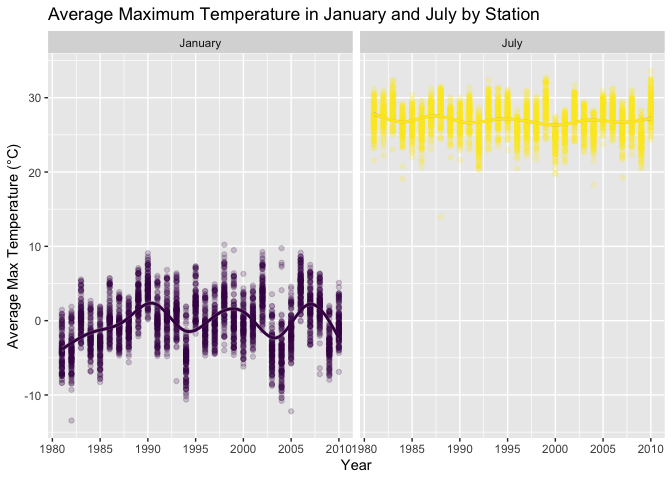
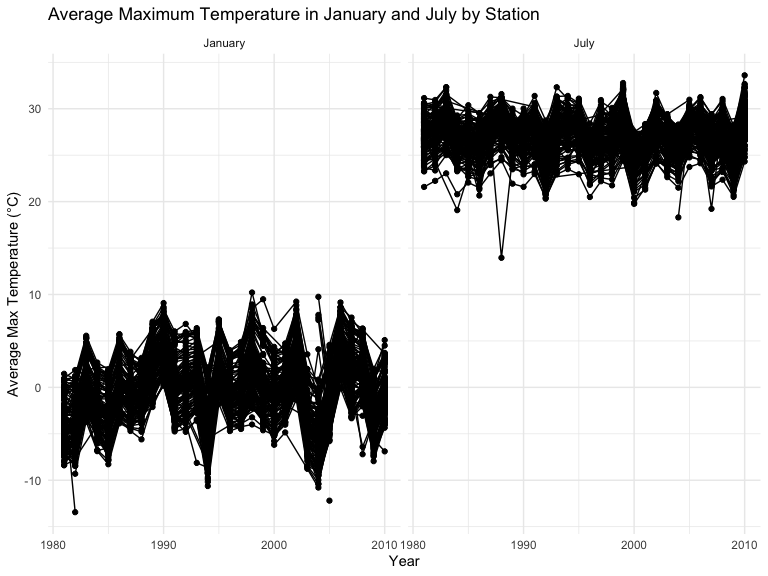
made changes/edits to problem 1

diff --git a/p8105_hw3_ss6985.md b/p8105_hw3_ss6985.md
@@ -82,39 +82,38 @@ measured in tenths of degrees C and converted into degrees C).
 
 ``` r
 noaatidy_df |>
-  filter(!is.na(snow)) |>            
-  group_by(snow) |>                 
-  summarize(count = n()) |>        
-  arrange(desc(count)) 
+  count(snow) |>
+  arrange(desc(n))
 ```
 
-    ## # A tibble: 281 × 2
-    ##     snow   count
+    ## # A tibble: 282 × 2
+    ##     snow       n
     ##    <int>   <int>
     ##  1     0 2008508
-    ##  2    25   31022
-    ##  3    13   23095
-    ##  4    51   18274
-    ##  5    76   10173
-    ##  6     8    9962
-    ##  7     5    9748
-    ##  8    38    9197
-    ##  9     3    8790
-    ## 10   102    6552
-    ## # ℹ 271 more rows
+    ##  2    NA  381221
+    ##  3    25   31022
+    ##  4    13   23095
+    ##  5    51   18274
+    ##  6    76   10173
+    ##  7     8    9962
+    ##  8     5    9748
+    ##  9    38    9197
+    ## 10     3    8790
+    ## # ℹ 272 more rows
 
 For snowfall, the most commonly observed value is O (no recorded
 snowfall on most days in NY state). This makes sense because snowfall
 only occurs during certain times of the year and in specific conditions
 (i.e., there are many days with no snowfall, and a small window for
-possible snow).
+possible snow). The second most commonly observed value is `NA`,
+suggesting missingness.
 
 ### Making two-panel plot:
 
 ``` r
-avg_temp_df = noaatidy_df %>% 
-  filter(month %in% c("January", "July")) %>% 
-  group_by(id, year, month) %>% 
+avg_temp_df = noaatidy_df |>
+  filter(month %in% c("January", "July")) |>
+  group_by(id, year, month) |>
   summarize(avg_tmax = mean(tmax, na.rm = TRUE))
 ```
 
@@ -122,73 +121,51 @@ avg_temp_df = noaatidy_df %>%
     ## `.groups` argument.
 
 ``` r
-ggplot(avg_temp_df, aes(x = year, y = avg_tmax, color = month)) +
-  geom_point(alpha = 0.2) +
-  geom_smooth(alpha = 0.5) +
+ggplot(avg_temp_df, aes(x = year, y = avg_tmax, group = id)) + geom_point() + geom_path() +
+  facet_grid(. ~ month) +
   labs(
     title = "Average Maximum Temperature in January and July by Station",
     x = "Year",
     y = "Average Max Temperature (°C)",
-  ) +
-  scale_x_continuous(
-    breaks = c(1980, 1985, 1990, 1995, 2000, 2005, 2010)
-    ) +
-  facet_grid(. ~ month) +
-  viridis::scale_color_viridis(discrete = TRUE) +
-  theme(
-    legend.position = "none")
+  ) 
 ```
 
-    ## `geom_smooth()` using method = 'gam' and formula = 'y ~ s(x, bs = "cs")'
-
-    ## Warning: Removed 5970 rows containing non-finite outside the scale range
-    ## (`stat_smooth()`).
-
-    ## Warning: Removed 5970 rows containing missing values or values outside the scale range
-    ## (`geom_point()`).
-
-![](p8105_hw3_ss6985_files/figure-gfm/unnamed-chunk-4-1.png)<!-- --> The
-two-panel plot shows the average maximum temperature in January and July
-across years by station. July temperatures remain stable around 25–30°C,
-with fewer outliers (e.g., one possible at about 14ºC), overall ranging
-from about 20ºC and 35ºC. Seasonal patterns are evident in January,
-while July shows less variation. January temperatures fluctuate more
-(within approximately -10 to 10ºC), with some potential outliers (e.g.,
-lowest max temperature at about -14ºC). There does not appear to be a
-significant difference in average max temperatures in July or January
-throughout the years. The average temperatures in January (winter month)
-are also lower than in July (summer month).
+<img src="p8105_hw3_ss6985_files/figure-gfm/unnamed-chunk-4-1.png" width="90%" />
+The two-panel plot shows the average maximum temperature in January and
+July across years by station. July temperatures remain stable around
+25–30°C, with fewer outliers (e.g., one possible at about 14ºC), overall
+ranging from about 20ºC and 35ºC. Seasonal patterns are evident in
+January, while July shows less variation. January temperatures fluctuate
+more (within approximately -10 to 10ºC), with some potential outliers
+(e.g., lowest max temperature at about -14ºC). There does not appear to
+be a significant difference in average max temperatures in July or
+January throughout the years. The average temperatures in January
+(winter month) are also lower than in July (summer month). All stations
+appear to follow similar trends of temperature peaks and valleys within
+a month across the years.
 
 ### Making more two-panel plots:
 
 ``` r
 tmax_tmin_df = noaatidy_df |>
-  filter(!is.na(tmax), !is.na(tmin)) |>
   ggplot(aes(x = tmin, y = tmax)) +
-  geom_hex(bins = 40) +
-  geom_smooth(se = FALSE) +
-  viridis::scale_color_viridis(discrete = TRUE) + 
+  geom_hex() +
   labs(
     title = "Maximum vs Minimum Temperatures",
     x = "Minimum Temperature (°C)",
     y = "Maximum Temperature (°C)"
-  ) + 
-  theme_minimal() + 
-  theme(legend.position = "bottom")
+  )
 
 tmax_tmin_df
 ```
 
-    ## `geom_smooth()` using method = 'gam' and formula = 'y ~ s(x, bs = "cs")'
-
-![](p8105_hw3_ss6985_files/figure-gfm/unnamed-chunk-5-1.png)<!-- -->
+<img src="p8105_hw3_ss6985_files/figure-gfm/unnamed-chunk-5-1.png" width="90%" />
 
 ``` r
 snowfall_df = noaatidy_df |>
   filter(snow > 0, snow < 100) %>% 
-  ggplot(aes(x = snow, y = factor(year), fill = stat(x))) +
-  geom_density_ridges_gradient(scale = 3, rel_min_height = 0.01) + 
-  scale_fill_viridis_c(name = "Snowfall (mm)", option = "A") + 
+  ggplot(aes(x = snow, y = as.factor(year))) +
+  geom_density_ridges() +
   labs(
     title = "Distribution of Snowfall (0 < Snow < 100) by Year",
     x = "Snowfall (mm)",
@@ -198,24 +175,21 @@ snowfall_df = noaatidy_df |>
 snowfall_df
 ```
 
-    ## Warning: `stat(x)` was deprecated in ggplot2 3.4.0.
-    ## ℹ Please use `after_stat(x)` instead.
-    ## This warning is displayed once every 8 hours.
-    ## Call `lifecycle::last_lifecycle_warnings()` to see where this warning was
-    ## generated.
-
     ## Picking joint bandwidth of 3.76
 
-![](p8105_hw3_ss6985_files/figure-gfm/unnamed-chunk-5-2.png)<!-- -->
+<img src="p8105_hw3_ss6985_files/figure-gfm/unnamed-chunk-5-2.png" width="90%" />
 
 The first two-panel plot (hex plot) shows the `tmax` vs `tmin` for the
 full dataset. The plot shows denser regions at moderate maximum
 temperatures (around 0ºC to 35ºC) and minimum temperatures (around -10ºC
-to 20ºC), suggesting most observations fall within that range.
+to 20ºC), suggesting most observations fall within that range. The
+majority of the data cluster tightly in the center of the distribution.
 
 The second two-panel plot shows the distribution of snowfall (values
 greater than 0 and less than 100) separately by year. The ridgeline plot
-shows distributions across years with most snowfall events concentrated
-around 0-40mm. The overall patterns suggests a fairly consistent
-distribution of snowfall values below 50mm even with some variability
-across the years.
+shows a multimodal density of snowfall within a given year and
+distributions across years with most snowfall events concentrated around
+0-35mm. There is a another group of stations that see about 45mm of snow
+and another group that sees nearly 80 mm. The overall patterns suggests
+a fairly consistent distribution of snowfall values with some
+variability across the years.
